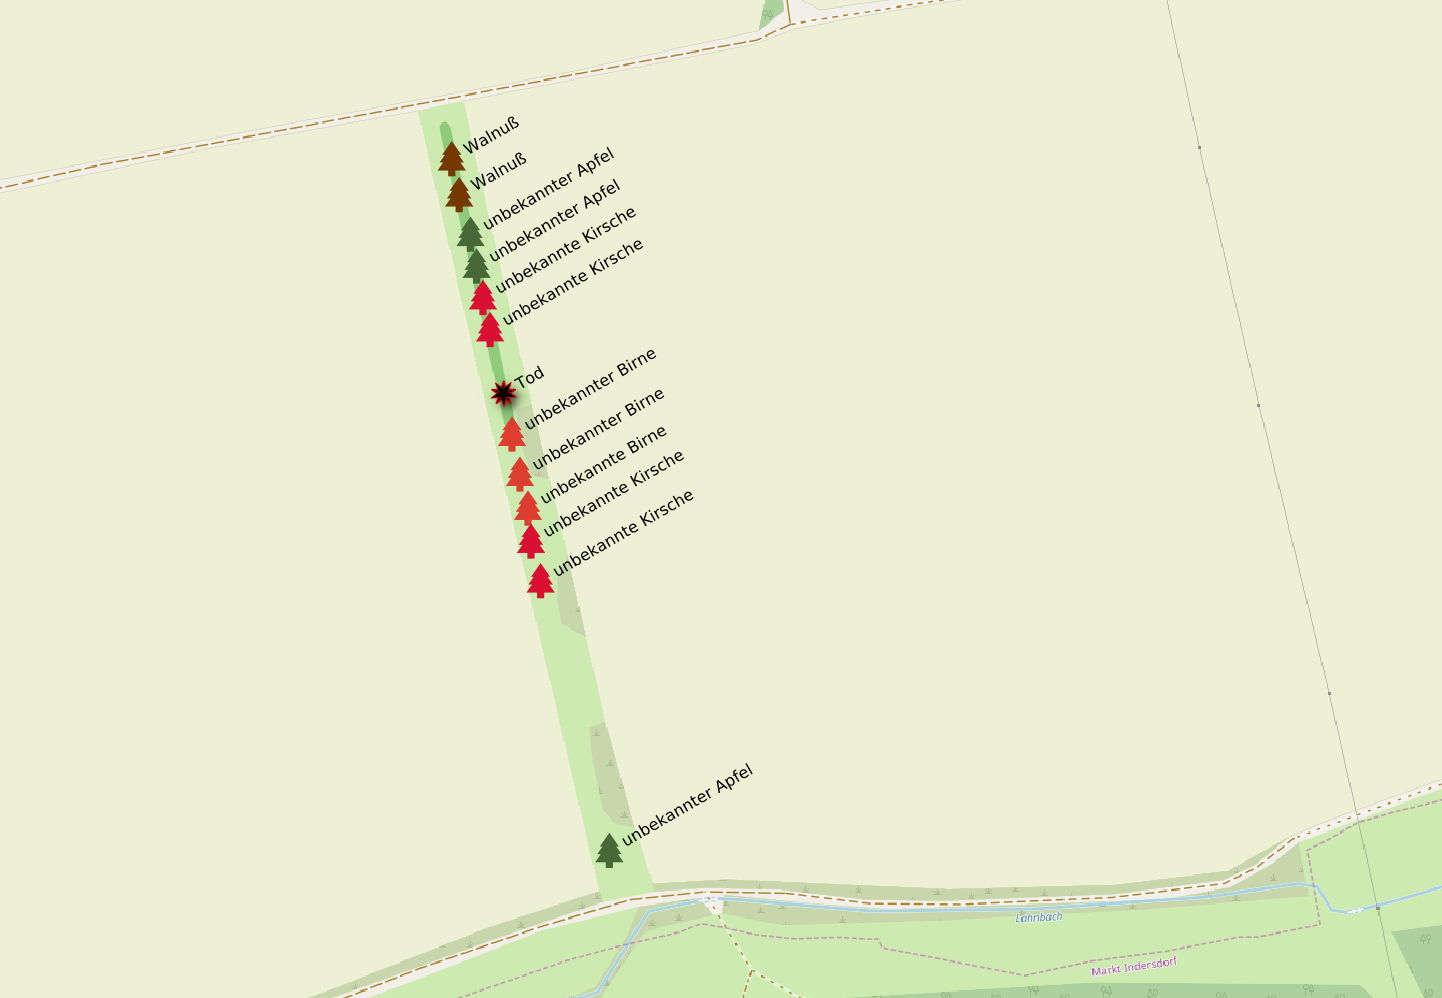
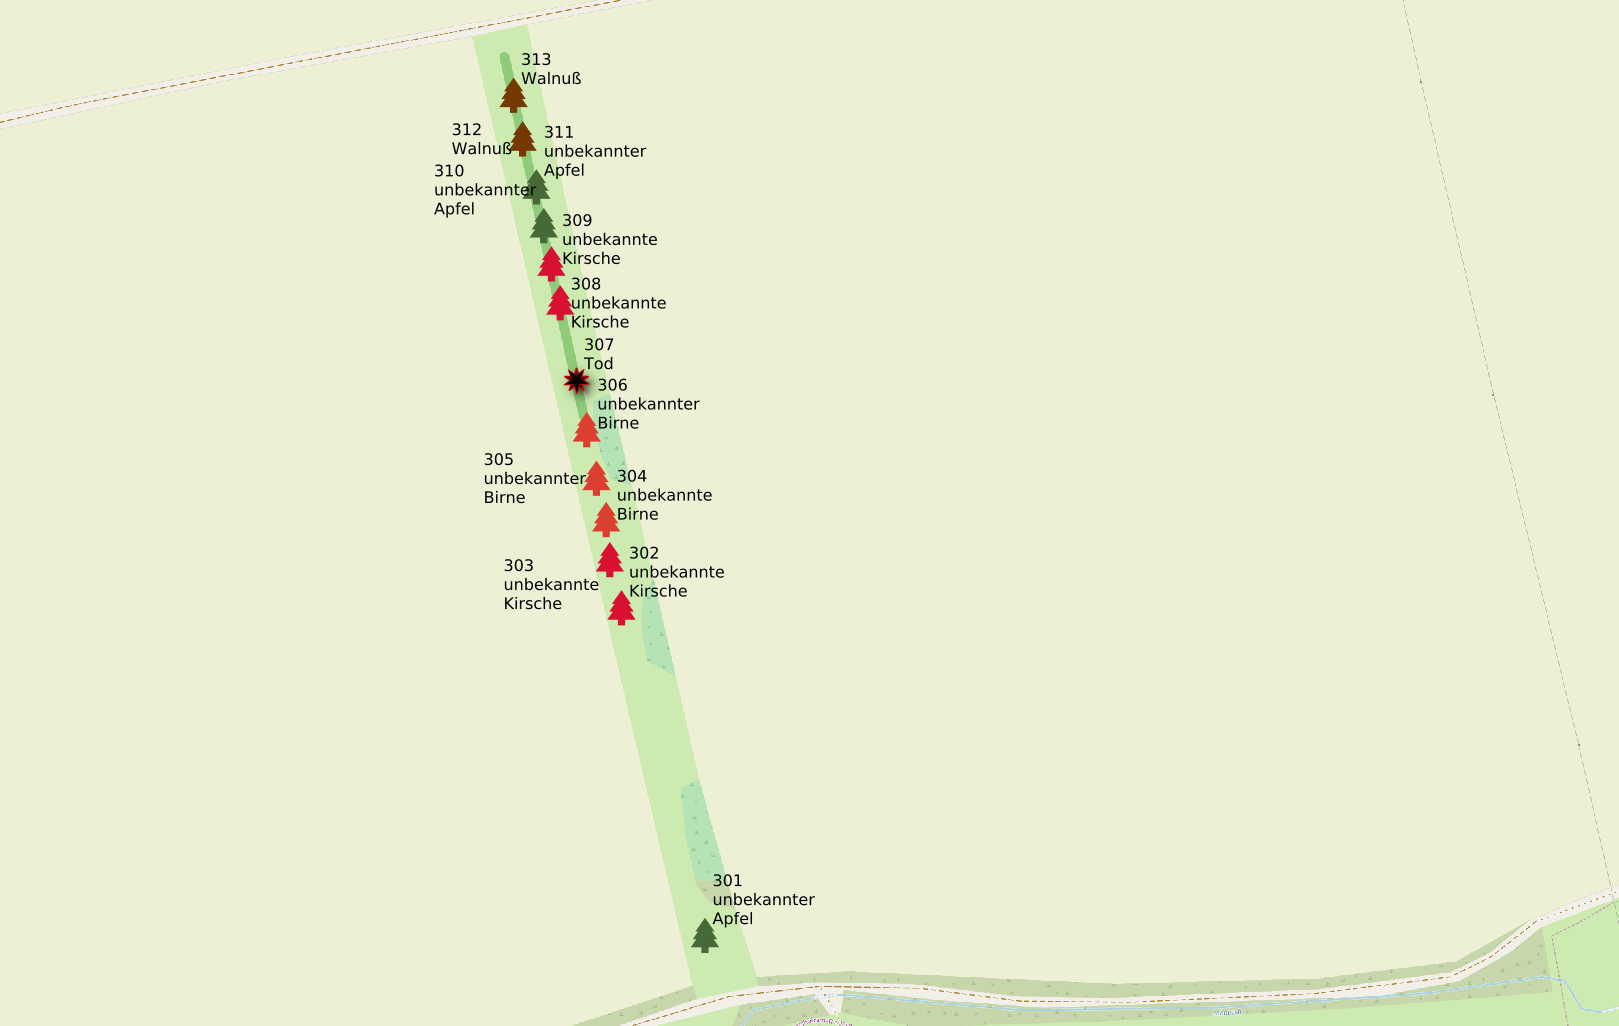
Neue Bäume und Wiesen

diff --git a/hilgi/__init__.py b/hilgi/__init__.py
@@ -1,1 +1,1 @@
-Version = "0.5.1"
+Version = "0.5.2"
